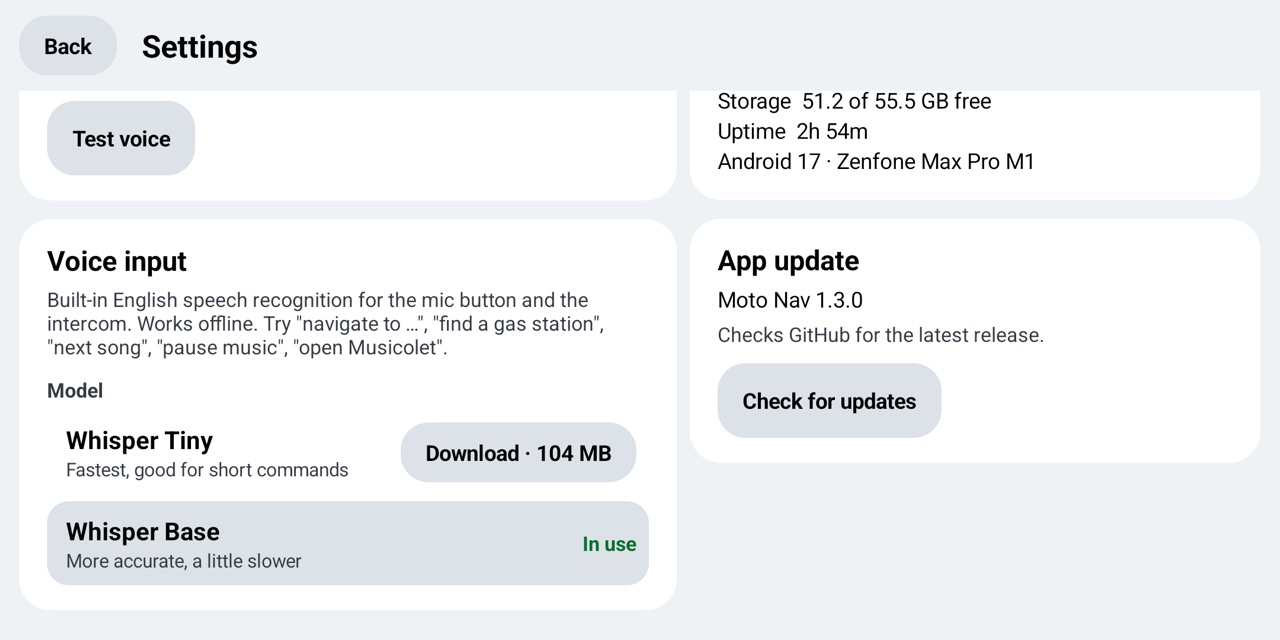
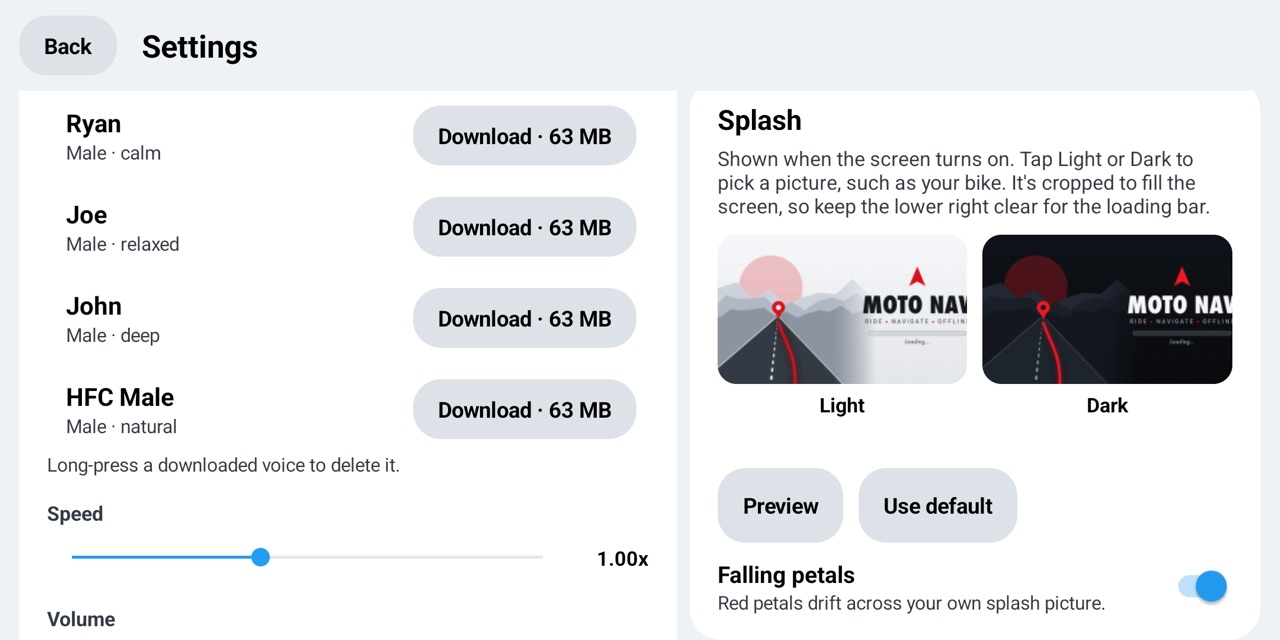
Close Moto Nav screens on screen off and update settings screenshot

diff --git a/android/app/src/main/java/app/organicmaps/moto/MotoBar.java b/android/app/src/main/java/app/organicmaps/moto/MotoBar.java
@@ -162,7 +162,7 @@ public final class MotoBar extends LinearLayout
       if (Intent.ACTION_SCREEN_OFF.equals(action))
       {
         if (!mActivity.getLifecycle().getCurrentState().isAtLeast(androidx.lifecycle.Lifecycle.State.RESUMED))
-          MotoRoot.run("am start -a android.intent.action.MAIN -c android.intent.category.HOME");
+          MotoRoot.run("am start -n " + mActivity.getPackageName() + "/app.organicmaps.MwmActivity");
       }
       else if (Intent.ACTION_SCREEN_ON.equals(action))
       {

diff --git a/README.md b/README.md
@@ -11,7 +11,7 @@ Moto Nav turns a spare Android phone into a dashboard for your motorcycle. It ru
 <p align="center">
   <img src="docs/screenshots/splash.jpg" width="32%" alt="Splash screen"/>
   <img src="docs/screenshots/apps.jpg" width="32%" alt="App drawer"/>
-  <img src="docs/screenshots/settings.jpg" width="32%" alt="Launcher settings"/>
+  <img src="docs/screenshots/settings.jpg" width="32%" alt="Settings with the splash picker"/>
 </p>
 
 ## Features
